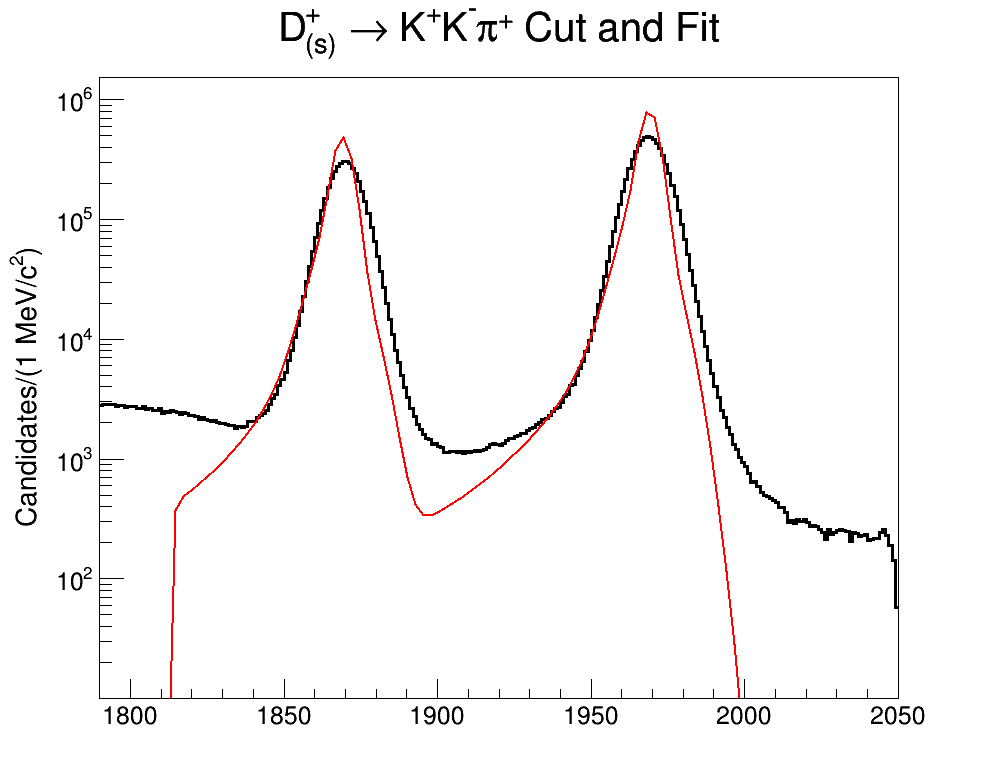
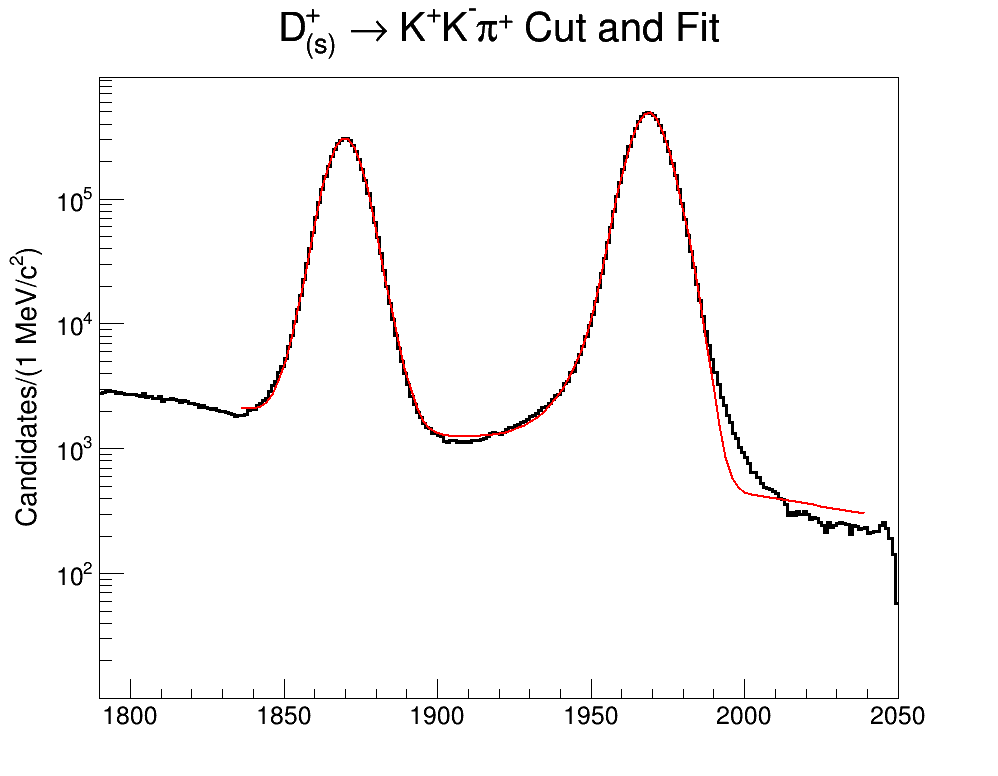
momentum scaling reductions

diff --git a/quick.py b/quick.py
@@ -1,19 +1,35 @@
 import os
-os.chdir('/data/home/bodensjc/ddecay')
+os.chdir('/share/lazy/MomentumScaleCorrections')
 
-data = open('notes.txt')
-data = data.readlines()[345:-7]
-data = [line.replace('\n','')[1:] for line in data]
-data = [line.split('\t') for line in data]
-print(data)
+step1 = open('D2KKPi_Step1_SingleGrid.C', 'r')
+step1lines = step1.readlines()
 
-def separate(lst):
-	return [int(item[0]) for item in lst], [int(item[1]) for item in lst], [int(item[2]) for item in lst]
+step2 = open('D2KKPi_Step2.C', 'r')
+step2lines = step2.readlines()
+
+varbs = ['Dplus_ENDVERTEX_X', 'Dplus_ENDVERTEX_Y', 'Dplus_ENDVERTEX_Z', 'Dplus_ENDVERTEX_XERR', 'Dplus_ENDVERTEX_YERR', 'Dplus_ENDVERTEX_ZERR', 'Dplus_ENDVERTEX_CHI2', 'Dplus_ENDVERTEX_NDOF', 'Dplus_ENDVERTEX_COV_', 'Dplus_OWNPV_X', 'Dplus_OWNPV_Y', 'Dplus_OWNPV_Z', 'Dplus_OWNPV_XERR', 'Dplus_OWNPV_YERR', 'Dplus_OWNPV_ZERR', 'Dplus_OWNPV_CHI2', 'Dplus_OWNPV_NDOF', 'Dplus_OWNPV_COV_', 'Dplus_IP_OWNPV', 'Dplus_IPCHI2_OWNPV', 'Dplus_FD_OWNPV', 'Dplus_FDCHI2_OWNPV', 'Dplus_DIRA_OWNPV', 'Dplus_P', 'Dplus_PT', 'Dplus_PE', 'Dplus_PX', 'Dplus_PY', 'Dplus_PZ', 'Dplus_MM', 'Dplus_MMERR', 'Dplus_M', 'Dplus_ID', 'Dplus_X', 'Dplus_Y', 'Dplus_TAU', 'Dplus_TAUERR', 'Dplus_TAUCHI2', 'Kminus_MC12TuneV2_ProbNNe', 'Kminus_MC12TuneV2_ProbNNmu', 'Kminus_MC12TuneV2_ProbNNpi', 'Kminus_MC12TuneV2_ProbNNk', 'Kminus_MC12TuneV2_ProbNNp', 'Kminus_MC12TuneV2_ProbNNghost', 'Kminus_MC12TuneV3_ProbNNe', 'Kminus_MC12TuneV3_ProbNNmu', 'Kminus_MC12TuneV3_ProbNNpi', 'Kminus_MC12TuneV3_ProbNNk', 'Kminus_MC12TuneV3_ProbNNp', 'Kminus_MC12TuneV3_ProbNNghost', 'Kminus_MC12TuneV4_ProbNNe', 'Kminus_MC12TuneV4_ProbNNmu', 'Kminus_MC12TuneV4_ProbNNpi', 'Kminus_MC12TuneV4_ProbNNk', 'Kminus_MC12TuneV4_ProbNNp', 'Kminus_MC12TuneV4_ProbNNghost', 'Kminus_MC15TuneV1_ProbNNe', 'Kminus_MC15TuneV1_ProbNNmu', 'Kminus_MC15TuneV1_ProbNNpi', 'Kminus_MC15TuneV1_ProbNNk', 'Kminus_MC15TuneV1_ProbNNp', 'Kminus_MC15TuneV1_ProbNNghost', 'Kminus_OWNPV_X', 'Kminus_OWNPV_Y', 'Kminus_OWNPV_Z', 'Kminus_OWNPV_XERR', 'Kminus_OWNPV_YERR', 'Kminus_OWNPV_ZERR', 'Kminus_OWNPV_CHI2', 'Kminus_OWNPV_NDOF', 'Kminus_OWNPV_COV_', 'Kminus_IP_OWNPV', 'Kminus_IPCHI2_OWNPV', 'Kminus_ORIVX_X', 'Kminus_ORIVX_Y', 'Kminus_ORIVX_Z', 'Kminus_ORIVX_XERR', 'Kminus_ORIVX_YERR', 'Kminus_ORIVX_ZERR', 'Kminus_ORIVX_CHI2', 'Kminus_ORIVX_NDOF', 'Kminus_ORIVX_COV_', 'Kminus_P', 'Kminus_PT', 'Kminus_PE', 'Kminus_PX', 'Kminus_PY', 'Kminus_PZ', 'Kminus_M', 'Kminus_ID', 'Kminus_PIDe', 'Kminus_PIDmu', 'Kminus_PIDK', 'Kminus_PIDp', 'Kminus_PIDd', 'Kminus_ProbNNe', 'Kminus_ProbNNk', 'Kminus_ProbNNp', 'Kminus_ProbNNpi', 'Kminus_ProbNNmu', 'Kminus_ProbNNd', 'Kminus_ProbNNghost', 'Kminus_hasMuon', 'Kminus_isMuon', 'Kminus_hasRich', 'Kminus_UsedRichAerogel', 'Kminus_UsedRich1Gas', 'Kminus_UsedRich2Gas', 'Kminus_RichAboveElThres', 'Kminus_RichAboveMuThres', 'Kminus_RichAbovePiThres', 'Kminus_RichAboveKaThres', 'Kminus_RichAbovePrThres', 'Kminus_hasCalo', 'Kminus_TRACK_Type', 'Kminus_TRACK_Key', 'Kminus_TRACK_CHI2', 'Kminus_TRACK_NDOF', 'Kminus_TRACK_CHI2NDOF', 'Kminus_TRACK_PCHI2', 'Kminus_TRACK_VeloCHI2NDOF', 'Kminus_TRACK_TCHI2NDOF', 'Kminus_TRACK_VELO_UTID', 'Kminus_TRACK_TT_UTID', 'Kminus_TRACK_IT_UTID', 'Kminus_TRACK_OT_UTID', 'Kminus_TRACK_VP_UTID', 'Kminus_TRACK_UT_UTID', 'Kminus_TRACK_FT_UTID', 'Kminus_TRACK_nVeloHits', 'Kminus_TRACK_nVeloRHits', 'Kminus_TRACK_nVeloPhiHits', 'Kminus_TRACK_nVeloPileUpHits', 'Kminus_TRACK_nTTHits', 'Kminus_TRACK_nITHits', 'Kminus_TRACK_nOTHits', 'Kminus_TRACK_nVPHits', 'Kminus_TRACK_nUTHits', 'Kminus_TRACK_nFTHits', 'Kminus_TRACK_History', 'Kminus_TRACK_FirstMeasurementX', 'Kminus_TRACK_FirstMeasurementY', 'Kminus_TRACK_FirstMeasurementZ', 'Kminus_TRACK_FirstMeasurementQOverP', 'Kminus_TRACK_FirstMeasurementTx', 'Kminus_TRACK_FirstMeasurementTy', 'Kminus_TRACK_MatchCHI2', 'Kminus_TRACK_GhostProb', 'Kminus_TRACK_CloneDist', 'Kminus_TRACK_Likelihood', 'Kminus_X', 'Kminus_Y', 'Kplus_MC12TuneV2_ProbNNe', 'Kplus_MC12TuneV2_ProbNNmu', 'Kplus_MC12TuneV2_ProbNNpi', 'Kplus_MC12TuneV2_ProbNNk', 'Kplus_MC12TuneV2_ProbNNp', 'Kplus_MC12TuneV2_ProbNNghost', 'Kplus_MC12TuneV3_ProbNNe', 'Kplus_MC12TuneV3_ProbNNmu', 'Kplus_MC12TuneV3_ProbNNpi', 'Kplus_MC12TuneV3_ProbNNk', 'Kplus_MC12TuneV3_ProbNNp', 'Kplus_MC12TuneV3_ProbNNghost', 'Kplus_MC12TuneV4_ProbNNe', 'Kplus_MC12TuneV4_ProbNNmu', 'Kplus_MC12TuneV4_ProbNNpi', 'Kplus_MC12TuneV4_ProbNNk', 'Kplus_MC12TuneV4_ProbNNp', 'Kplus_MC12TuneV4_ProbNNghost', 'Kplus_MC15TuneV1_ProbNNe', 'Kplus_MC15TuneV1_ProbNNmu', 'Kplus_MC15TuneV1_ProbNNpi', 'Kplus_MC15TuneV1_ProbNNk', 'Kplus_MC15TuneV1_ProbNNp', 'Kplus_MC15TuneV1_ProbNNghost', 'Kplus_OWNPV_X', 'Kplus_OWNPV_Y', 'Kplus_OWNPV_Z', 'Kplus_OWNPV_XERR', 'Kplus_OWNPV_YERR', 'Kplus_OWNPV_ZERR', 'Kplus_OWNPV_CHI2', 'Kplus_OWNPV_NDOF', 'Kplus_OWNPV_COV_', 'Kplus_IP_OWNPV', 'Kplus_IPCHI2_OWNPV', 'Kplus_ORIVX_X', 'Kplus_ORIVX_Y', 'Kplus_ORIVX_Z', 'Kplus_ORIVX_XERR', 'Kplus_ORIVX_YERR', 'Kplus_ORIVX_ZERR', 'Kplus_ORIVX_CHI2', 'Kplus_ORIVX_NDOF', 'Kplus_ORIVX_COV_', 'Kplus_P', 'Kplus_PT', 'Kplus_PE', 'Kplus_PX', 'Kplus_PY', 'Kplus_PZ', 'Kplus_M', 'Kplus_ID', 'Kplus_PIDe', 'Kplus_PIDmu', 'Kplus_PIDK', 'Kplus_PIDp', 'Kplus_PIDd', 'Kplus_ProbNNe', 'Kplus_ProbNNk', 'Kplus_ProbNNp', 'Kplus_ProbNNpi', 'Kplus_ProbNNmu', 'Kplus_ProbNNd', 'Kplus_ProbNNghost', 'Kplus_hasMuon', 'Kplus_isMuon', 'Kplus_hasRich', 'Kplus_UsedRichAerogel', 'Kplus_UsedRich1Gas', 'Kplus_UsedRich2Gas', 'Kplus_RichAboveElThres', 'Kplus_RichAboveMuThres', 'Kplus_RichAbovePiThres', 'Kplus_RichAboveKaThres', 'Kplus_RichAbovePrThres', 'Kplus_hasCalo', 'Kplus_TRACK_Type', 'Kplus_TRACK_Key', 'Kplus_TRACK_CHI2', 'Kplus_TRACK_NDOF', 'Kplus_TRACK_CHI2NDOF', 'Kplus_TRACK_PCHI2', 'Kplus_TRACK_VeloCHI2NDOF', 'Kplus_TRACK_TCHI2NDOF', 'Kplus_TRACK_VELO_UTID', 'Kplus_TRACK_TT_UTID', 'Kplus_TRACK_IT_UTID', 'Kplus_TRACK_OT_UTID', 'Kplus_TRACK_VP_UTID', 'Kplus_TRACK_UT_UTID', 'Kplus_TRACK_FT_UTID', 'Kplus_TRACK_nVeloHits', 'Kplus_TRACK_nVeloRHits', 'Kplus_TRACK_nVeloPhiHits', 'Kplus_TRACK_nVeloPileUpHits', 'Kplus_TRACK_nTTHits', 'Kplus_TRACK_nITHits', 'Kplus_TRACK_nOTHits', 'Kplus_TRACK_nVPHits', 'Kplus_TRACK_nUTHits', 'Kplus_TRACK_nFTHits', 'Kplus_TRACK_History', 'Kplus_TRACK_FirstMeasurementX', 'Kplus_TRACK_FirstMeasurementY', 'Kplus_TRACK_FirstMeasurementZ', 'Kplus_TRACK_FirstMeasurementQOverP', 'Kplus_TRACK_FirstMeasurementTx', 'Kplus_TRACK_FirstMeasurementTy', 'Kplus_TRACK_MatchCHI2', 'Kplus_TRACK_GhostProb', 'Kplus_TRACK_CloneDist', 'Kplus_TRACK_Likelihood', 'Kplus_X', 'Kplus_Y', 'Piplus_MC12TuneV2_ProbNNe', 'Piplus_MC12TuneV2_ProbNNmu', 'Piplus_MC12TuneV2_ProbNNpi', 'Piplus_MC12TuneV2_ProbNNk', 'Piplus_MC12TuneV2_ProbNNp', 'Piplus_MC12TuneV2_ProbNNghost', 'Piplus_MC12TuneV3_ProbNNe', 'Piplus_MC12TuneV3_ProbNNmu', 'Piplus_MC12TuneV3_ProbNNpi', 'Piplus_MC12TuneV3_ProbNNk', 'Piplus_MC12TuneV3_ProbNNp', 'Piplus_MC12TuneV3_ProbNNghost', 'Piplus_MC12TuneV4_ProbNNe', 'Piplus_MC12TuneV4_ProbNNmu', 'Piplus_MC12TuneV4_ProbNNpi', 'Piplus_MC12TuneV4_ProbNNk', 'Piplus_MC12TuneV4_ProbNNp', 'Piplus_MC12TuneV4_ProbNNghost', 'Piplus_MC15TuneV1_ProbNNe', 'Piplus_MC15TuneV1_ProbNNmu', 'Piplus_MC15TuneV1_ProbNNpi', 'Piplus_MC15TuneV1_ProbNNk', 'Piplus_MC15TuneV1_ProbNNp', 'Piplus_MC15TuneV1_ProbNNghost', 'Piplus_OWNPV_X', 'Piplus_OWNPV_Y', 'Piplus_OWNPV_Z', 'Piplus_OWNPV_XERR', 'Piplus_OWNPV_YERR', 'Piplus_OWNPV_ZERR', 'Piplus_OWNPV_CHI2', 'Piplus_OWNPV_NDOF', 'Piplus_OWNPV_COV_', 'Piplus_IP_OWNPV', 'Piplus_IPCHI2_OWNPV', 'Piplus_ORIVX_X', 'Piplus_ORIVX_Y', 'Piplus_ORIVX_Z', 'Piplus_ORIVX_XERR', 'Piplus_ORIVX_YERR', 'Piplus_ORIVX_ZERR', 'Piplus_ORIVX_CHI2', 'Piplus_ORIVX_NDOF', 'Piplus_ORIVX_COV_', 'Piplus_P', 'Piplus_PT', 'Piplus_PE', 'Piplus_PX', 'Piplus_PY', 'Piplus_PZ', 'Piplus_M', 'Piplus_ID', 'Piplus_PIDe', 'Piplus_PIDmu', 'Piplus_PIDK', 'Piplus_PIDp', 'Piplus_PIDd', 'Piplus_ProbNNe', 'Piplus_ProbNNk', 'Piplus_ProbNNp', 'Piplus_ProbNNpi', 'Piplus_ProbNNmu', 'Piplus_ProbNNd', 'Piplus_ProbNNghost', 'Piplus_hasMuon', 'Piplus_isMuon', 'Piplus_hasRich', 'Piplus_UsedRichAerogel', 'Piplus_UsedRich1Gas', 'Piplus_UsedRich2Gas', 'Piplus_RichAboveElThres', 'Piplus_RichAboveMuThres', 'Piplus_RichAbovePiThres', 'Piplus_RichAboveKaThres', 'Piplus_RichAbovePrThres', 'Piplus_hasCalo', 'Piplus_TRACK_Type', 'Piplus_TRACK_Key', 'Piplus_TRACK_CHI2', 'Piplus_TRACK_NDOF', 'Piplus_TRACK_CHI2NDOF', 'Piplus_TRACK_PCHI2', 'Piplus_TRACK_VeloCHI2NDOF', 'Piplus_TRACK_TCHI2NDOF', 'Piplus_TRACK_VELO_UTID', 'Piplus_TRACK_TT_UTID', 'Piplus_TRACK_IT_UTID', 'Piplus_TRACK_OT_UTID', 'Piplus_TRACK_VP_UTID', 'Piplus_TRACK_UT_UTID', 'Piplus_TRACK_FT_UTID', 'Piplus_TRACK_nVeloHits', 'Piplus_TRACK_nVeloRHits', 'Piplus_TRACK_nVeloPhiHits', 'Piplus_TRACK_nVeloPileUpHits', 'Piplus_TRACK_nTTHits', 'Piplus_TRACK_nITHits', 'Piplus_TRACK_nOTHits', 'Piplus_TRACK_nVPHits', 'Piplus_TRACK_nUTHits', 'Piplus_TRACK_nFTHits', 'Piplus_TRACK_History', 'Piplus_TRACK_FirstMeasurementX', 'Piplus_TRACK_FirstMeasurementY', 'Piplus_TRACK_FirstMeasurementZ', 'Piplus_TRACK_FirstMeasurementQOverP', 'Piplus_TRACK_FirstMeasurementTx', 'Piplus_TRACK_FirstMeasurementTy', 'Piplus_TRACK_MatchCHI2', 'Piplus_TRACK_GhostProb', 'Piplus_TRACK_CloneDist', 'Piplus_TRACK_Likelihood', 'Piplus_X', 'Piplus_Y', 'nCandidate', 'totCandidates', 'EventInSequence', 'runNumber', 'eventNumber', 'BCID', 'BCType', 'OdinTCK', 'L0DUTCK', 'HLT1TCK', 'HLT2TCK', 'GpsTime', 'Polarity', 'nPV', 'PVX', 'PVY', 'PVZ', 'PVXERR', 'PVYERR', 'PVZERR', 'PVCHI2', 'PVNDOF', 'PVNTRACKS']
 
 
-mev, dm, dsm = separate(data)
-print(mev)
-print(dm)
-print(dsm)	
-print(len(mev), len(dm), len(dsm))
-print(mev[80])
+
+myLst1=[]
+myLst2=[]
+
+for line in step1lines:
+	for varb in varbs:
+		if varb in line:
+			myLst1.append(varb)
+
+for line in step2lines:
+	for varb in varbs:
+		if varb in line:
+			myLst2.append(varb)
+
+mySet1 = set(myLst1)
+mySet2 = set(myLst2)
+print(mySet1 > mySet2)
+
+
+
+
+
+

diff --git a/dp_ms_reduced.C b/dp_ms_reduced.C
@@ -1,0 +1,90 @@
+{//begin
+#include <TMath.h>
+#include <math.h>
+#include "scripts/fit1MeV_GaussianPlusCBWithExp_redo.C"
+
+using namespace std;
+using namespace ROOT;
+
+EnableImplicitMT();
+
+
+
+//this file is for making the reduced d+ ntuples
+//split by polarity and run 
+//used for the momentum scaling steps 1 and 2
+
+
+//These are all of the variables that appear in the Step1 and Step2 Code:
+/*
+'Kminus_ID', 'Dplus_P', 'Kplus_PE', 'Kminus_X', 'Dplus_DIRA_OWNPV', 'Dplus_FDCHI2_OWNPV', 'Kminus_PY', 'Piplus_MC15TuneV1_ProbNNpi', 'Dplus_PE', 'Kplus_ID', 'Piplus_PZ', 'Dplus_PT', 'Kminus_P', 'Piplus_PT', 'Piplus_isMuon', 'Dplus_IPCHI2_OWNPV', 'Kplus_IPCHI2_OWNPV', 'Piplus_MC15TuneV1_ProbNNp', 'Kminus_PZ', 'Kplus_PT', 'Kplus_Y', 'Piplus_PY', 'Piplus_X', 'Dplus_TAU', 'Kplus_M', 'Kminus_PT', 'Kminus_PX', 'Kplus_MC15TuneV1_ProbNNk', 'Kplus_PY', 'Piplus_ID', 'Kminus_M', 'Dplus_PX', 'Kminus_Y', 'Piplus_Y', 'Kminus_PE', 'Dplus_M', 'Dplus_PY', 'Dplus_PZ', 'Kplus_PZ', 'Kplus_PX', 'Kplus_X', 'Piplus_PX', 'Dplus_ENDVERTEX_CHI2', 'Kminus_IPCHI2_OWNPV', 'Kminus_MC15TuneV1_ProbNNk', 'Kplus_isMuon', 'Kplus_P', 'Piplus_PE', 'Piplus_P', 'Piplus_M', 'Kplus_PIDe', 'Piplus_PIDe', 'Piplus_IPCHI2_OWNPV', 'Dplus_ID'
+*/
+
+
+
+
+
+
+//create rdataframe for dp data
+
+//RDataFrame dpdf("D2KKpi/DecayTree", "/share/lazy/D2KKpi/dp_data_dec20/dpmagup01.root");//smaller file for tests
+RDataFrame dpdf("D2KKpi/DecayTree", {"/share/lazy/D2KKpi/dpmagup_dec20.root","/share/lazy/D2KKpi/dpmagdown_dec20.root"});
+
+auto cut_dp_fdchi2 = [](double x) {return x > 150 ;};
+auto cut_dp_ipchi2 = [](double x) {return x < 15 ;};
+auto cut_dp_dira = [](double x) {return x > 0.99 ;};
+auto cut_dp_PZ = [](double x) {return x > 8000 ;};
+
+auto cut_kkpi_P = [](double x) {return x > 2500 ;};
+auto cut_kkpi_PT = [](double x) {return x > 250 ;};
+auto cut_kkpi_ipchi2 = [](double x) {return x > 5 ;};
+auto cut_kkpi_probNNsame = [](double x) {return x > 0.6 ;};
+auto cut_kkpi_PIDe = [](double x) {return x < 0 ;};
+auto cut_kkpi_isMuon = [](double x) {return !x ;};
+
+
+
+
+
+auto dp_cut  =  dpdf.Filter(cut_dp_fdchi2, {"Dplus_FDCHI2_OWNPV"})
+					.Filter(cut_dp_ipchi2, {"Dplus_IPCHI2_OWNPV"})
+					.Filter(cut_dp_dira, {"Dplus_DIRA_OWNPV"})
+					.Filter(cut_kkpi_P, {"Kminus_P"})
+					.Filter(cut_kkpi_P, {"Kplus_P"})
+					.Filter(cut_kkpi_P, {"Piplus_P"})
+					.Filter(cut_kkpi_PT, {"Kminus_PT"})
+					.Filter(cut_kkpi_PT, {"Kplus_PT"})
+					.Filter(cut_kkpi_PT, {"Piplus_PT"})
+					.Filter(cut_kkpi_ipchi2, {"Kminus_IPCHI2_OWNPV"})
+					.Filter(cut_kkpi_ipchi2, {"Kplus_IPCHI2_OWNPV"})
+					.Filter(cut_kkpi_ipchi2, {"Piplus_IPCHI2_OWNPV"})
+					.Filter(cut_kkpi_probNNsame, {"Kminus_MC15TuneV1_ProbNNk"})
+					.Filter(cut_kkpi_probNNsame, {"Kplus_MC15TuneV1_ProbNNk"})
+					.Filter(cut_kkpi_probNNsame, {"Piplus_MC15TuneV1_ProbNNpi"})
+					.Filter(cut_kkpi_PIDe, {"Kplus_PIDe"})
+					.Filter(cut_kkpi_PIDe, {"Piplus_PIDe"})
+					.Filter(cut_kkpi_isMuon, {"Kplus_isMuon"})
+					.Filter(cut_kkpi_isMuon, {"Piplus_isMuon"});
+
+
+				 
+
+
+
+
+
+
+
+
+auto treeName = "DecayTree";
+
+
+auto dpoutFileName = "/share/lazy/D2KKpi/dp_cut.root";
+dp_standardized.Snapshot(treeName, dpoutFileName, {"particle_MM", "particle_TAU", "particle_PX", "particle_PY", "particle_PZ", "particle_PT", "isDp", "Polarity"});
+
+
+
+}//end
+
+
+

diff --git a/combined_cut_fit.C b/combined_cut_fit.C
@@ -25,7 +25,7 @@ void combined_cut_fit::Begin(TTree * /*tree*/)
    TString option = GetOption();
 
 //*********Initialization Section**********
-dpdspFit = new TF1("dpdspFit",fit1MeV_DoubleGaussian_DoubleCB_ExpBG,1790,2050, 16);
+dpdspFit = new TF1("dpdspFit",fit1MeV_DoubleGaussian_DoubleCB_ExpBG,1835,2040, 16);
 	dpdspFit->SetParName(0, "nSignal1");
 	dpdspFit->SetParName(1, "mu1");	
 	dpdspFit->SetParName(2, "rms_wdth1");	
@@ -96,7 +96,9 @@ Bool_t combined_cut_fit::Process(Long64_t entry)
 
 	Bool_t takeData = ((*particle_MM < cutoffMass) && (*isDp == 1)) || ((*particle_MM >= cutoffMass) && (*isDp == 0));
 
-	if (takeData) {
+
+
+	if (takeData && *Polarity == 1) {
 		dpdspHist->Fill(*particle_MM);
 	}
 
@@ -147,32 +149,32 @@ cout << "exp coef: " << expCoefGuess << endl;
 
 
 dpdspFit->SetParameter(0,nSignal1Guess);//nSignal
-	dpdspFit->SetParLimits(0,4000000,5000000);//this is a yikes... need to address
+	//dpdspFit->SetParLimits(0,4000000,5000000);//this is a yikes... need to address
 	dpdspFit->SetParameter(1,1869);//mu
 	dpdspFit->SetParameter(2,4.);//rms of double gaussian
-	dpdspFit->SetParLimits(2,0.,20.);
+	//dpdspFit->SetParLimits(2,0.,20.);
 	dpdspFit->SetParameter(3,7);//sigma_1 of primary gaussian
-	dpdspFit->SetParLimits(3,1,15);
-	dpdspFit->SetParameter(4,0.85);//fraction of signal in primary gaussian
-	dpdspFit->SetParLimits(4,0.00001,0.33333);
+	//dpdspFit->SetParLimits(3,1,15);
+	dpdspFit->SetParameter(4,0.1);//fraction of signal in primary gaussian
+	dpdspFit->SetParLimits(4,0.000001,0.65);
 	dpdspFit->SetParameter(5, 1.5);//crystal ball alpha
 	dpdspFit->SetParameter(6,2.5);//crystal ball n
 	dpdspFit->SetParLimits(6,1.00001,6.);
 	dpdspFit->SetParameter(7,nSignal2Guess);//nSignal
-	dpdspFit->SetParLimits(7,7000000,8000000);//this is a yikes... need to address
+	//dpdspFit->SetParLimits(7,7000000,8000000);//this is a yikes... need to address
 	dpdspFit->SetParameter(8,1969);//mu
 	dpdspFit->SetParameter(9,4.);//rms of double gaussian
-	dpdspFit->SetParLimits(9,0.,20.);
+	//dpdspFit->SetParLimits(9,0.,20.);
 	dpdspFit->SetParameter(10,7);//sigma_2 of primary gaussian
-	dpdspFit->SetParLimits(10,1,15);
-	dpdspFit->SetParameter(11,0.85);//fraction of signal in primary gaussian
-	dpdspFit->SetParLimits(11,0.000001,0.33333);
+	//dpdspFit->SetParLimits(10,1,15);
+	dpdspFit->SetParameter(11,0.1);//fraction of signal in primary gaussian
+	dpdspFit->SetParLimits(11,0.000001,0.65);
 	dpdspFit->SetParameter(12, 1.5);//crystal ball alpha
 	dpdspFit->SetParameter(13,2.5);//crystal ball n
 	dpdspFit->SetParLimits(13,1.00001,6.);
-	dpdspFit->SetParameter(14,firstbin);//exp intercept
-	dpdspFit->SetParameter(15,expCoefGuess);//coefficient background exponential
-	dpdspFit->SetParLimits(15, 0, -0.001);
+	dpdspFit->SetParameter(14,2000);//exp intercept
+	dpdspFit->SetParameter(15,-0.012);//coefficient background exponential
+	//dpdspFit->SetParLimits(15, 0, -0.001);
 
 
 
@@ -182,7 +184,7 @@ auto totalpullcan = new TCanvas("totalpullcan", "totalpullcan", 1000, 800);
 totalpullcan->SetLogy();
 dpdspHist->Draw();
 
-totalpullcan->SaveAs("image/aaaa_Dp_Dsp_fit_log.png");
+totalpullcan->SaveAs("image/magup_Dp_Dsp_fit_log.png");
 
 
 
